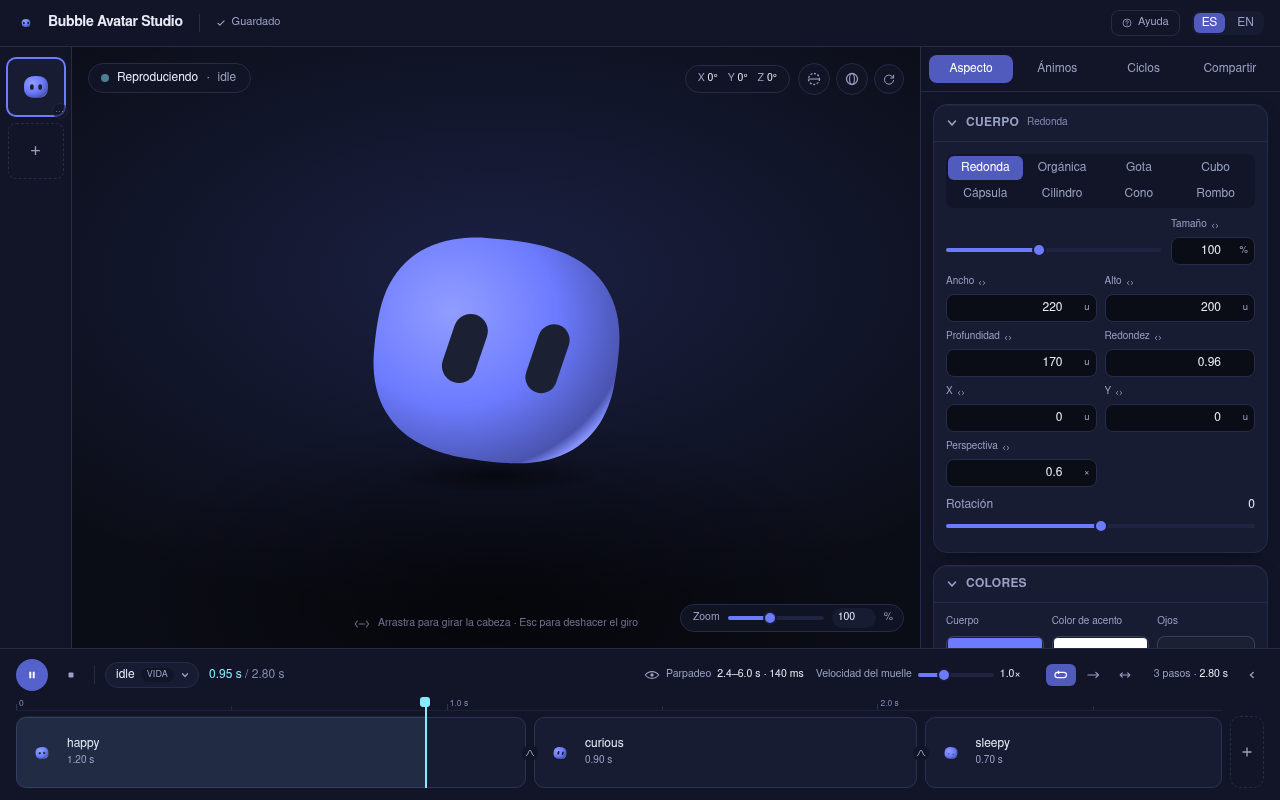
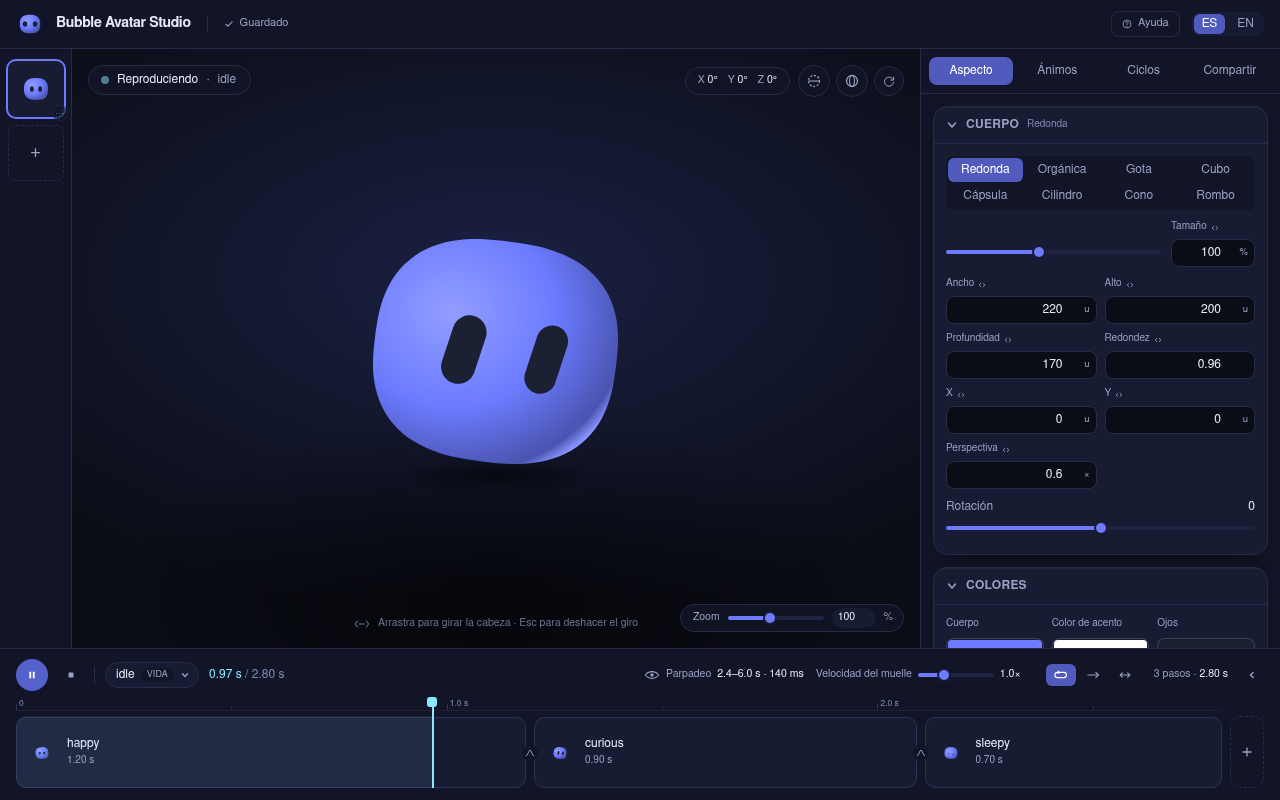
Give the mark its box, and the help sheet its whole window
Two defects in yesterday's work, both of them mine.

**The mark was drawn small inside its own icon.** The scene is 512 units square
whatever the character does, and the template's 220-wide body fills 43% of it.
That margin is right on a stage — it is the room a character turns and bobs in
— and wrong in a tab strip, where the box is the entire picture and the rest is
transparent padding. The mark scales the body, its depth and its face together
to about three quarters of the box, and the header wears it at 28px rather than
20. The favicon golden caught the change and was regenerated deliberately; the
test states the fill as a fraction of the scene, so the number can move again
without the rule being rewritten.

**The help sheet's dim covered the dialog instead of the screen.** `Modal` is
`absolute inset-0`, which means it covers its nearest *positioned* ancestor —
deliberate, and load-bearing for the mood editor, which dims the inspector and
leaves the stage bright to be judged against (docs/05 §2). The help sheet is
the one modal not anchored to a panel, and I had wrapped it in a `relative` box
to give it a size. That wrapper became the thing the backdrop covered: the dim
stopped at the dialog's edges and the studio behind it stayed bright, and
clickable, under a sheet that claimed to be modal.

So `Modal` now takes the size it should be rather than inheriting it from a
wrapper — a `box` prop for the dialog and an `align` for its placement, both
[…]

diff --git a/src/app/studio/help/HelpSheet.tsx b/src/app/studio/help/HelpSheet.tsx
@@ -1,11 +1,16 @@
 // The help sheet the header opens: shortcuts (FR-9.7) and a guide to the
 // studio (FR-9.9), as two tabs of one dialog.
 //
-// The dialog is given a size by the box around it rather than by its content.
-// `Modal` is `absolute inset-0`, so without a sized positioned ancestor it
-// spans the viewport — which is what left the old shortcut list stranded in a
-// mostly empty sheet — and a fixed height is also what stops the dialog
-// resizing under the pointer when the tabs are switched.
+// The sheet asks `Modal` for its size through the `box` prop rather than
+// wrapping it in a sized div. The backdrop is `absolute inset-0`, so any
+// positioned ancestor becomes the thing it covers: wrapped, the dim reached
+// the dialog's own edges and left the rest of the studio bright and clickable
+// behind a supposedly modal sheet.
+//
+// The height is a cap, not a fixed size. Pinning it stops the sheet resizing
+// when the tabs are switched, but the shortcuts need a third less room than
+// the guide, and a pinned sheet spends that difference on the blank this
+// redesign exists to remove.
 import { useId, useState } from "react";
 import { Modal } from "../ui";
 import { GUIDE_SECTIONS, SHORTCUT_GROUPS } from "./content";
@@ -31,53 +36,49 @@ export function HelpSheet({
   ];
 
   return (
-    <div className="fixed inset-0 z-40 grid place-items-center p-6">
-      <div className="relative h-[min(32rem,100%)] w-full max-w-3xl">
-        <Modal
-          title={t("help.title")}
-          closeLabel={t("common.close")}
-          onClose={onClose}
+    <div className="fixed inset-0 z-40">
+      <Modal
+        title={t("help.title")}
+        closeLabel={t("common.close")}
+        onClose={onClose}
+        align="items-center"
+        box="max-h-[min(32rem,100%)] w-full max-w-3xl"
+      >
+        <div
+          role="tablist"
+          className="flex shrink-0 gap-0.5 rounded-field bg-panel p-0.5"
         >
-          <div
-            role="tablist"
-            className="flex shrink-0 gap-0.5 rounded-field bg-panel p-0.5"
-          >
-            {tabs.map((x) => (
-              <button
-                key={x.id}
-                id={tabId(x.id)}
-                role="tab"
-                type="button"
-                aria-selected={pane === x.id}
-                aria-controls={panelId}
-                onClick={() => {
-                  setPane(x.id);
-                }}
-                className={`flex-1 rounded-field px-2 py-1.5 text-xs transition-colors duration-150 ease-out ${
-                  pane === x.id
-                    ? "bg-primary text-white"
-                    : "text-ink-dim hover:bg-white/6 hover:text-ink"
-                }`}
-              >
-                {t(x.label)}
-              </button>
-            ))}
-          </div>
+          {tabs.map((x) => (
+            <button
+              key={x.id}
+              id={tabId(x.id)}
+              role="tab"
+              type="button"
+              aria-selected={pane === x.id}
+              aria-controls={panelId}
+              onClick={() => {
+                setPane(x.id);
+              }}
+              className={`flex-1 rounded-field px-2 py-1.5 text-xs transition-colors duration-150 ease-out ${
+                pane === x.id
+                  ? "bg-primary text-white"
+                  : "text-ink-dim hover:bg-white/6 hover:text-ink"
+              }`}
+            >
+              {t(x.label)}
+            </button>
+          ))}
+        </div>
 
-          <div
-            id={panelId}
-            role="tabpanel"
-            aria-labelledby={tabId(pane)}
-            className="pt-1"
-          >
-            {pane === "shortcuts" ? (
-              <ShortcutsPane t={t} />
-            ) : (
-              <GuidePane t={t} />
-            )}
-          </div>
-        </Modal>
-      </div>
+        <div
+          id={panelId}
+          role="tabpanel"
+          aria-labelledby={tabId(pane)}
+          className="pt-1"
+        >
+          {pane === "shortcuts" ? <ShortcutsPane t={t} /> : <GuidePane t={t} />}
+        </div>
+      </Modal>
     </div>
   );
 }

diff --git a/e2e/smoke.spec.ts b/e2e/smoke.spec.ts
@@ -318,3 +318,40 @@ test("narrow window: the shell holds together at 1024×720", async ({
   expect(stage?.width ?? 0).toBeGreaterThan(500);
   await shoot(page, "narrow-1024");
 });
+
+/**
+ * A modal dim that stops short of the window edge is a layout question, which
+ * is why it lives here: `Modal` is `absolute inset-0`, so it covers its
+ * nearest *positioned* ancestor rather than the screen (docs/05 §2 — that is
+ * deliberate, so the mood editor dims the inspector and leaves the stage to be
+ * judged against). The help sheet is the one modal that is not anchored to a
+ * panel, and a sizing wrapper around it once made its backdrop cover only the
+ * dialog's own box, leaving the rest of the studio undimmed and clickable.
+ */
+test("help sheet: the dim covers the whole window (FR-9.7)", async ({
+  page,
+}) => {
+  await page.goto("/");
+  await page.getByRole("button", { name: /Ayuda/ }).click();
+  await expect(page.getByRole("dialog", { name: "Ayuda" })).toBeVisible();
+
+  const viewport = page.viewportSize();
+  const backdrop = await page.getByTestId("modal-backdrop").boundingBox();
+  expect(backdrop).not.toBeNull();
+  if (!backdrop || !viewport) return;
+
+  // Flush to every edge, not merely large.
+  expect(backdrop.x).toBeLessThanOrEqual(0);
+  expect(backdrop.y).toBeLessThanOrEqual(0);
+  expect(backdrop.x + backdrop.width).toBeGreaterThanOrEqual(viewport.width);
+  expect(backdrop.y + backdrop.height).toBeGreaterThanOrEqual(viewport.height);
+
+  // And it is the thing a click lands on out there, so the studio behind the
+  // sheet cannot be operated while the sheet is open.
+  const corner = await page.evaluate(() => {
+    const el = document.elementFromPoint(12, window.innerHeight - 12);
+    return el?.getAttribute("data-testid") ?? el?.tagName ?? null;
+  });
+  expect(corner).toBe("modal-backdrop");
+  await shoot(page, "help-sheet");
+});

diff --git a/src/app/studio/ui.tsx b/src/app/studio/ui.tsx
@@ -244,6 +244,8 @@ export function Modal({
   onClose,
   children,
   footer,
+  box = "w-full",
+  align = "items-start",
 }: {
   title: string;
   /** Accessible name of the ✕ — translated by the caller, which holds `t`. */
@@ -252,6 +254,17 @@ export function Modal({
   children: React.ReactNode;
   /** Trailing action row, pinned below the scrollable body. */
   footer?: React.ReactNode;
+  /**
+   * Size classes for the dialog box itself.
+   *
+   * A caller that wants a particular size must say so here rather than wrap
+   * the modal in a sized box of its own: the backdrop below is
+   * `absolute inset-0`, so a positioned wrapper becomes the thing it covers,
+   * and the dim stops at the dialog instead of reaching the window.
+   */
+  box?: string;
+  /** Cross-axis placement within the host. */
+  align?: "items-start" | "items-center";
 }) {
   const ref = useRef<HTMLDivElement>(null);
 
@@ -287,7 +300,7 @@ export function Modal({
   }, [onClose]);
 
   return (
-    <div className="absolute inset-0 z-30 flex items-start justify-center p-3">
+    <div className={`absolute inset-0 z-30 flex ${align} justify-center p-3`}>
       <button
         type="button"
         tabIndex={-1}
@@ -302,7 +315,7 @@ export function Modal({
         aria-modal="true"
         aria-label={title}
         tabIndex={-1}
-        className="relative flex max-h-full w-full flex-col overflow-hidden rounded-card border border-line bg-panel-2 shadow-panel outline-none"
+        className={`relative flex max-h-full flex-col overflow-hidden rounded-card border border-line bg-panel-2 shadow-panel outline-none ${box}`}
       >
         <div className="flex shrink-0 items-center gap-2 border-b border-line px-3 py-2.5">
           <h2 className="min-w-0 flex-1 truncate text-xs font-semibold tracking-wide text-ink-dim uppercase">

diff --git a/src/render/mark.ts b/src/render/mark.ts
@@ -12,13 +12,35 @@ import { restingScene } from "./scene";
 import { sceneToSvg } from "./svg";
 import type { Bubble } from "../domain/document/types";
 
+/**
+ * How much bigger the mark is than the studio's default character.
+ *
+ * The scene is 512 units square whatever the body does, and the template's
+ * 220-wide body fills 43% of it. That reads fine on a stage, where the empty
+ * margin is the room a character turns and bobs in — and reads as a speck in
+ * a tab strip or beside a wordmark, where the box is the whole picture. This
+ * takes the silhouette to about three quarters of its box, which is what an
+ * icon wants, and stops short of the edge so it never looks cropped.
+ */
+const MARK_SCALE = 1.7;
+
 /** The character the mark draws. Deterministic: a fresh one every call. */
 export function markBubble(): Bubble {
   const bubble = createBubble("Bubble", "bbl_mark0000");
-  bubble.restingFace.eye = { width: 46, height: 60, roundness: 1 };
-  bubble.restingFace.spacing = 92;
-  bubble.restingFace.left.offsetX = -8;
-  bubble.restingFace.right.offsetX = 8;
+  const { surface } = bubble.body;
+  surface.width *= MARK_SCALE;
+  surface.height *= MARK_SCALE;
+  // Depth travels with the other two: the body is a solid (FR-2.8), and one
+  // that grew only across the screen would flatten as it grew.
+  surface.depth *= MARK_SCALE;
+  bubble.restingFace.eye = {
+    width: 46 * MARK_SCALE,
+    height: 60 * MARK_SCALE,
+    roundness: 1,
+  };
+  bubble.restingFace.spacing = 92 * MARK_SCALE;
+  bubble.restingFace.left.offsetX = -8 * MARK_SCALE;
+  bubble.restingFace.right.offsetX = 8 * MARK_SCALE;
   // A logo does not breathe. Ambient is a function of time, and a mark that
   // depends on the clock is a mark that cannot be a golden.
   bubble.ambient = { ...bubble.ambient, enabled: false };

diff --git a/src/render/mark.test.ts b/src/render/mark.test.ts
@@ -58,6 +58,23 @@ describe("the mark reads at 16px", () => {
     }
   });
 
+  it("fills its box, so the glyph is not a dot in a field of nothing", () => {
+    // The scene is 512 wide whatever the character does, and the default
+    // template's 220 fills 43% of it — legible on a stage, a speck in a tab
+    // strip or beside a wordmark. An icon wants most of its own box.
+    const width = markBubble().body.surface.width;
+    expect(width / scene.size).toBeGreaterThan(0.65);
+    // Not so far that the silhouette touches the edge and looks cropped.
+    expect(width / scene.size).toBeLessThan(0.85);
+  });
+
+  it("keeps the face in proportion as the body grows", () => {
+    // Scaling the body alone would leave two pinpricks on a large head.
+    const bubble = markBubble();
+    const eye = bubble.restingFace.eye.width;
+    expect(eye / bubble.body.surface.width).toBeGreaterThan(0.15);
+  });
+
   it("sits the character upright and centred, so no crop is needed", () => {
     expect(scene.head.transform).toContain("rotate(0)");
     expect(left.x).toBeCloseTo(-right.x, 5);

diff --git a/src/app/studio/StudioView.tsx b/src/app/studio/StudioView.tsx
@@ -172,7 +172,7 @@ export function StudioView() {
   return (
     <div className="flex h-dvh flex-col bg-stage text-ink">
       <header className="flex shrink-0 items-center gap-3 border-b border-line bg-panel px-4 py-2.5">
-        <BubbleMark size={20} />
+        <BubbleMark size={28} />
         <h1 className="text-sm font-semibold tracking-tight">
           {t("app.title")}
         </h1>

diff --git a/docs/LEGACY-DOCS.md b/docs/LEGACY-DOCS.md
@@ -1467,17 +1467,20 @@ transition, a non-integer seed), which one file per code cannot express.
 
 ### 4b. Current state (re-derive; do not trust)
 
-As of the help sheet and the mark (F9): **39 Vitest files, 680 tests**, plus
-**1 Playwright spec** of **11 scenarios** — boot, panels, a playing loop and
+As of the help sheet and the mark (F9): **39 Vitest files, 682 tests**, plus
+**1 Playwright spec** of **12 scenarios** — boot, panels, a playing loop and
 the rail menu, joined by the mood editor's focus behaviour, the gizmo, the
-wireframe, the Share preview, drag-to-scrub, drag-to-reorder, and a 1024×720
-check that the track's first row and the inspector do not clip. Production
-bundle 357.09 kB JS / 38.89 kB CSS (106.91 / 7.72 gzipped).
+wireframe, the Share preview, drag-to-scrub, drag-to-reorder, a 1024×720
+check that the track's first row and the inspector do not clip, and the help
+sheet's backdrop reaching every window edge. Production bundle 357.16 kB JS /
+38.86 kB CSS (107.01 / 7.72 gzipped).
 
-Two of those scenarios exist because jsdom cannot decide them. The playing
+Three of those scenarios exist because jsdom cannot decide them. The playing
 loop asserts the **playhead has moved**: jsdom can prove the writer runs, not
-that the engine's frames arrive. And the narrow-window case is a layout
-question, which jsdom has no answer to at all.
+that the engine's frames arrive. The narrow-window case is a layout question,
+which jsdom has no answer to at all. So is the help sheet's backdrop: it is
+`absolute inset-0`, so what it actually covers depends on which ancestor is
+positioned, and only a real box model can say.
 
 The nine tests over F7's 637 are F8's: four pin what `springSpeed` does to a
 `spring()` curve and one that the loop's own value reaches `LoopPlayer`
